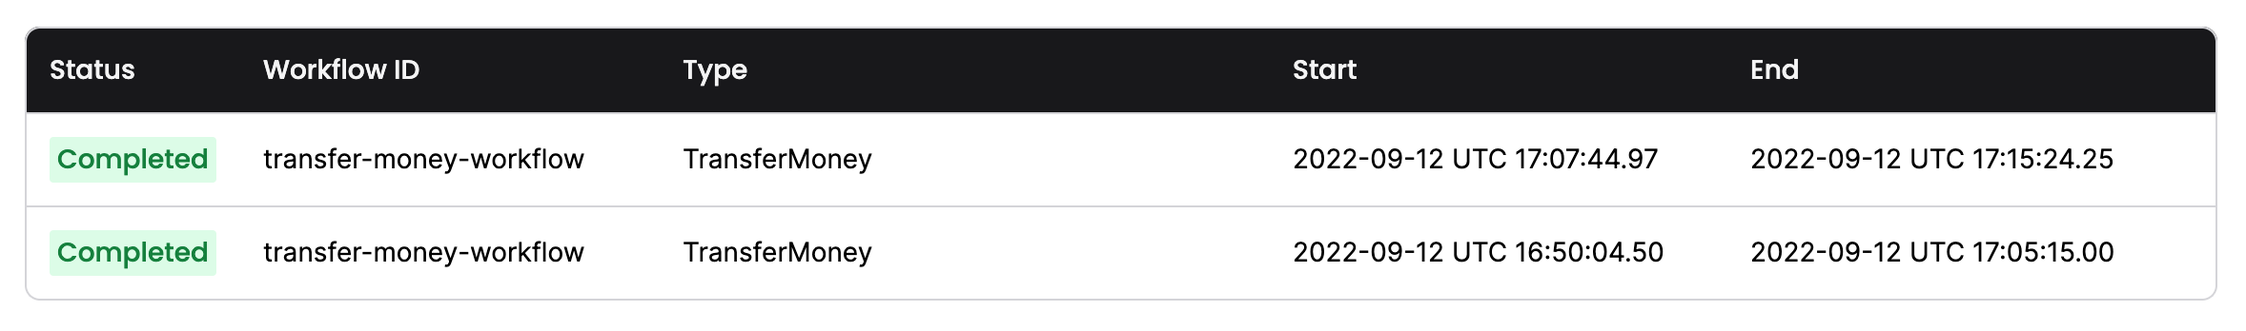
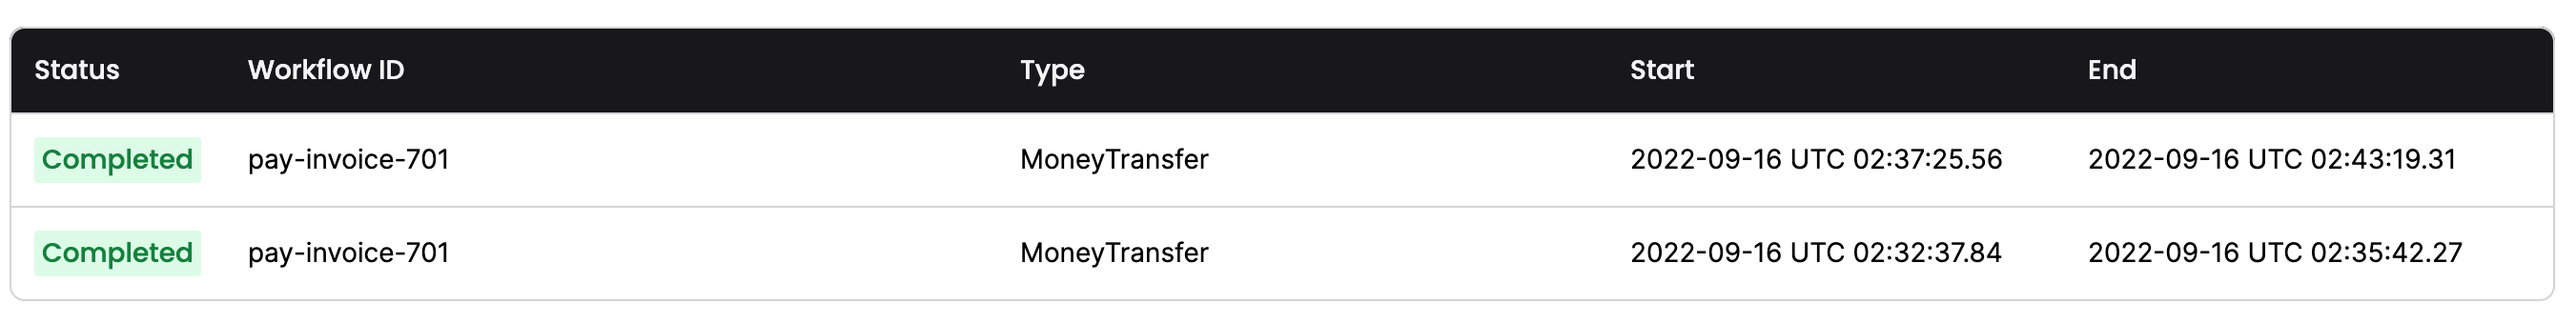
snipsync pointing to new money transfer app

diff --git a/docs/getting_started/go/first_program_in_go/index.md b/docs/getting_started/go/first_program_in_go/index.md
@@ -7,6 +7,7 @@ tags: [Go, SDK]
 last_update:
   date: 2022-09-12
 title: Run your first Temporal application with the Go SDK
+code_repo: https://github.com/temporalio/money-transfer-project-template-go
 ---
 
 ![Your first program in Go](images/banner.jpg)
@@ -44,7 +45,7 @@ Before starting this tutorial:
 
 ## ![](/img/icons/workflow.png) Application overview
 
-This project template mimics a "money transfer" application that has a single [Workflow function](https://docs.temporal.io/application-development/foundations/?lang=go#develop-workflows) which orchestrates the execution of `Withdraw()` and `Deposit()` functions, representing a transfer of money from one account to another. Temporal calls these particular functions [Activity functions](https://docs.temporal.io/application-development/foundations/?lang=go#develop-activities).
+The project in this tutorial mimics a "money transfer" application that has a single [Workflow function](https://docs.temporal.io/application-development/foundations/?lang=go#develop-workflows) which orchestrates the execution of `Withdraw()` and `Deposit()` functions, representing a transfer of money from one account to another. Temporal calls these particular functions [Activity functions](https://docs.temporal.io/application-development/foundations/?lang=go#develop-activities).
 
 To run the application you will do the following:
 
@@ -94,17 +95,23 @@ You use a [Workflow Definition](https://docs.temporal.io/workflows#workflow-defi
 <!--SNIPSTART money-transfer-project-template-go-workflow-->
 <!--SNIPEND-->
 
-In this case, the `TransferMoney` function accepts a value called `transferDetails` which is a data structure that holds the details the Workflow will use to perform the money transfer, which is defined in the file `shared.go`: 
+In this case, the `MoneyTransfer` function accepts an `input` variable of the type `PaymentDetails` which is a data structure that holds the details the Workflow will use to perform the money transfer, which is defined in the file `shared.go`: 
 
 <!--SNIPSTART money-transfer-project-template-go-transferdetails-->
 <!--SNIPEND-->
 
+It's a good practice to send a single, serializable data structure into a Workflow as its input, rather than multiple, separate input variables.
+
 The Workflow Definition then calls two Activities, `Withdraw` and `Deposit`. Activities are where you perform the business logic for your application. Like Workflows, you define Activities in Go by defining Go functions which receive a `context` and some input values.
 
-In this tutorial, the `withdraw` Activity takes in the details about the transfer and prints values to the screen:
+In this tutorial, the `withdraw` Activity takes in the details about the transfer and calls a service to process the withdrawal:
 
 <!--SNIPSTART money-transfer-project-template-go-activity-withdraw-->
 <!--SNIPEND-->
+
+If the transfer succeeded, the `Withdraw` function returns the confirmation. If it's unsuccessful, it returns an empty string and the error from the banking service.
+
+In this tutorial, the banking service simulates an external call.
 
 The `Deposit` function looks almost identical:
 
@@ -129,7 +136,7 @@ Let's see that in action.
 
 ## Start the Workflow 
 
-There are two ways to start a Workflow with Temporal, either via the SDK or via the [CLI](https://docs.temporal.io/tctl). In this tutorial you'll use the SDK to start the Workflow, which is how most Workflows get started in a live environment.
+There are two ways to start a Workflow with Temporal, either via the SDK or via the [tctl command-line tool](https://docs.temporal.io/tctl). In this tutorial you'll use the SDK to start the Workflow, which is how most Workflows get started in a live environment.
 
 In this tutorial, the file `start/main.go` contains a program that connects to the Temporal server and starts the workflow:
 
@@ -137,11 +144,11 @@ In this tutorial, the file `start/main.go` contains a program that connects to t
 <!--SNIPSTART money-transfer-project-template-go-start-workflow-->
 <!--SNIPEND-->
 
-You can make the call  [synchronously or asynchronously](https://docs.temporal.io/go/workflows/#how-to-start-a-workflow). Here we do it asynchronously, so you will see the program run, tell you the transaction is processing, and exit.
-
 :::note
 This tutorial uses a separate program to start the workflow, but you don't have to follow this pattern. In fact, most real applications will start a Workflow as part of another program. For example, you may start the Workflow in response to a button press, or an API call. 
 :::
+
+You can make the call [synchronously or asynchronously](https://docs.temporal.io/go/workflows/#how-to-start-a-workflow). Here we do it synchronously by fetching the return value of the Workflow execution with `we.Get`.  This call waits for the Workflow execution to complete before continuing.
 
 Now that you've seen how to use the SDK to start a Workflow Execution, try running the program yourself.
 
@@ -151,17 +158,19 @@ Make sure the [Temporal server](https://docs.temporal.io/clusters/quick-install)
 go run start/main.go
 ```
 
-If this is your first time running this application, Go may download some dependencies initially, but eventually you will get some feedback that looks like this:
+If this is your first time running this application, Go may download some dependencies initially, but once those downloads complete, you'll see output that looks like the following:
 
 ```bash
-2022/09/12 11:50:04 INFO  No logger configured for temporal client. Created default one.
-2022/09/12 11:50:04
-Transfer of $54.990002 from account 001-001 to account 002-002 is processing. ReferenceID: f3627192-bc3f-44c4-9556-f81adddeb41a
-2022/09/12 11:50:04
-WorkflowID: transfer-money-workflow RunID: 8319df7c-bc08-46d3-b9c9-cece1f42329d
+2022/09/15 21:32:38 INFO  No logger configured for temporal client. Created default one.
+2022/09/15 21:32:38 Starting transfer from account 85-150 to account 43-812 for 250
+2022/09/15 21:32:38 WorkflowID: pay-invoice-701 RunID: d69e638f-93e2-418c-9b05-16ca63526940
+
+
 ```
 
-The workflow is now running. Now it's time to check out one of the unique value propositions Temporal offers: application state visibility. 
+The workflow is now running. Leave the program running.
+
+Now it's time to check out one of the unique value propositions Temporal offers: application state visibility. 
 
 ## View the state of the Workflow with the Temporal Web UI
 
@@ -175,23 +184,27 @@ Next, click the ID for your Workflow. Now you can see everything you want to kno
 
 ![The details of the run.](images/workflow_status.png)
 
-You can see the inputs and results of the Workflow Execution by clicking the **Inputs and Results** section:
+The Workflow is "running", but the Workflow hasn't executed yet. As you see from the Web UI, there are no Workers running, polling the Task Queue.
 
-![Input and results](images/input_output.png)
+You can see the inputs and results of the Workflow Execution by clicking the **Input and Results** section:
 
-It seems that the Workflow is "running", but the Workflow hasn't executed yet. As you see from the Web UI, there are no Workers polling the Task Queue.
+![Input and results](images/inputs_results.png)
 
-You need at least one worker running in order to execute your workflows. 
+You see your inputs, but the results are in progress.
+
+You need at least one worker running in order to execute your workflows. You'll start the Worker next.
 
 ## Start the Worker
 
-It's time to start the Worker. A Worker is responsible for executing pieces of Workflow and Activity code.
+A Worker is responsible for executing pieces of Workflow and Activity code.
 
 - It can only execute code that has been registered to it.
 - It knows which piece of code to execute from Tasks that it gets from the Task Queue.
 - It only listens to the Task Queue that it is registered to.
 
-After the Worker executes code, it returns the results back to the Temporal Server:
+After the Worker executes code, it returns the results back to the Temporal Server.
+
+The file `worker/main.go` contains the code for the Worker. Like the program that started the Workflow, it connects to the Temporal Cluster. It also registers the Workflow and the two Activities:
 
 <!--SNIPSTART money-transfer-project-template-go-worker-->
 <!--SNIPEND-->
@@ -203,7 +216,15 @@ Task Queues are defined by a string name. To ensure your Task Queue names are co
 <!--SNIPSTART money-transfer-project-template-go-shared-task-queue-->
 <!--SNIPEND-->
 
-In your Terminal, run `worker/main.go` from the project root using the following command:
+Your `start/main.go` program is still running in your terminal, waiting for the Workflow to complete. Leave it running.
+
+Open a new terminal window and switch to your project directory:
+
+```command
+cd money-transfer-project-template-go
+```
+
+In this new terminal window, run `worker/main.go` from the project root using the following command:
 
 ```command
 go run worker/main.go
@@ -211,48 +232,65 @@ go run worker/main.go
 
 When you start the Worker it begins polling the Task Queue.
 
-The terminal output will look like this:
+The terminal output from the Worker will look like this:
 
 ```bash
-2022/09/12 12:03:16 INFO  No logger configured for temporal client. Created default one.
-2022/09/12 12:03:16 INFO  Started Worker Namespace default TaskQueue TRANSFER_MONEY_TASK_QUEUE WorkerID 24404@temporal.local@
-2022/09/12 12:05:15 DEBUG ExecuteActivity Namespace default TaskQueue TRANSFER_MONEY_TASK_QUEUE WorkerID 24404@temporal.local@ WorkflowType TransferMoney WorkflowID transfer-money-workflow RunID 8319df7c-bc08-46d3-b9c9-cece1f42329d Attempt 1 ActivityID 5 ActivityType Withdraw
+2022/09/15 21:35:43 INFO  No logger configured for temporal client. Created default one.
+2022/09/15 21:35:43 INFO  Started Worker Namespace default TaskQueue TRANSFER_MONEY_TASK_QUEUE WorkerID 73813@temporal.local@
+2022/09/15 21:35:43 DEBUG ExecuteActivity Namespace default TaskQueue TRANSFER_MONEY_TASK_QUEUE WorkerID 73813@temporal.local@ WorkflowType MoneyTransfer WorkflowID pay-invoice-701 RunID d69e638f-93e2-418c-9b05-16ca63526940 Attempt 1 ActivityID 5 ActivityType Withdraw
+2022/09/15 21:35:43 Withdrawing $250 from account 85-150.
 
-Withdrawing $54.990002 from account 001-001. ReferenceId: f3627192-bc3f-44c4-9556-f81adddeb41a
-2022/09/12 12:05:15 DEBUG ExecuteActivity Namespace default TaskQueue TRANSFER_MONEY_TASK_QUEUE WorkerID 24404@temporal.local@ WorkflowType TransferMoney WorkflowID transfer-money-workflow RunID 8319df7c-bc08-46d3-b9c9-cece1f42329d Attempt 1 ActivityID 11 ActivityType Deposit
+2022/09/15 21:35:43 DEBUG ExecuteActivity Namespace default TaskQueue TRANSFER_MONEY_TASK_QUEUE WorkerID 73813@temporal.local@ WorkflowType MoneyTransfer WorkflowID pay-invoice-701 RunID d69e638f-93e2-418c-9b05-16ca63526940 Attempt 1 ActivityID 11 ActivityType Deposit
+2022/09/15 21:35:43 Depositing $250 into account 43-812.
 
-Depositing $54.990002 into account 002-002. ReferenceId: f3627192-bc3f-44c4-9556-f81adddeb41a
+
+```
+
+The Worker continues running, waiting for more Tasks to execute. 
+
+Switch back to the terminal window where your `start/main.go` program is running and you'll see it's completed:
+
+```
+...
+
+2022/09/15 21:35:43 Transfer complete (transaction IDs: W1779185060, D4129841576)
+
 ```
 
 Check the Temporal Web UI again and you will see one Worker registered where previously there was none, and the Workflow status shows that it is completed:
 
 ![There is now one worker and the Workflow is complete](images/completed_workflow.png)
 
-:::tip What actually happens under the hood
+:::tip What happens under the hood
 
-> - The first Task the Worker finds is the one that tells it to execute the Workflow function.
-> - The Worker communicates the event back to the server.
-> - This causes the server to send Activity Tasks to the Task Queue.
-> - The Worker then grabs each of the Activity Tasks in their respective order from the Task Queue and executes each of the corresponding Activities.
->
-> Each of these are **History Events** that can be audited in Temporal Web (under the `History` tab next to `Summary`). Once a workflow is completed and closed, the full history will persist for a set retention period (typically 7-30 days) before being deleted. You can set up [the Archival feature](https://docs.temporal.io/concepts/what-is-archival) to send them to long term storage for compliance/audit needs.
+Here's what happens when the Worker runs and connects to the Temporal cluster:
+
+- The first Task the Worker finds is the one that tells it to execute the Workflow function.
+- The Worker communicates the event back to the server.
+- This causes the server to send Activity Tasks to the Task Queue.
+- The Worker then grabs each of the Activity Tasks in their respective order from the Task Queue and executes each of the corresponding Activities.
+
+Each of these are **History Events** that you can audit in Temporal Web under the **History** tab next to **Summary**. 
+
+Once a workflow is completed and closed, the full history will persist for a set retention period (typically 7-30 days) before being deleted. You can set up [the Archival feature](https://docs.temporal.io/concepts/what-is-archival) to send these entries to long term storage for compliance or audit needs.
 
 :::
 
-You've just ran a Temporal Workflow application!
+You just ran a Temporal Workflow application and saw how Workflows, Activities, and Workers interact. Now you'll explore how Temporal gives you tools to handle failures.
 
 ## ![](/img/icons/warning.png) Simulate failures
 
-You just got a taste of one of Temporal's amazing value propositions: visibility into the Workflow and the status of the Workers executing the code. Let's explore another key value proposition, maintaining the state of a Workflow, even in the face of failures. To demonstrate this you will simulate some failures for your Workflow. Make sure your Worker is stopped before proceeding by pressing `CTRL+C`.
+You just got a taste of one of Temporal's amazing value propositions: visibility into the Workflow and the status of the Workers executing the code. Let's explore another key value proposition, maintaining the state of a Workflow, even in the face of failures. To demonstrate this you will simulate some failures for your Workflow. 
 
 ### Recover from a server crash
 
-Unlike many modern applications that require complex leader election processes and external databases to handle failure, Temporal automatically preserves the state of your Workflow even if the server is down. You can easily test this by following these steps (again, make sure your Worker is stopped so your Workflow doesn't finish):
+Unlike many modern applications that require complex leader election processes and external databases to handle failure, Temporal automatically preserves the state of your Workflow even if the server is down. You can easily test this by following these steps:
 
-1. Start the Workflow again with `go run starter/main.go`.
-2. Verify the Workflow is running in the UI.
-3. Shut down the Temporal server by either using `CTRL+C` in the terminal window running the server or via the Docker dashboard.
-4. After the Temporal server has stopped, restart it and visit the UI.
+1.  Make sure your Worker is stopped before proceeding so your Workflow doesn't finish). Switch to the terminal that's running your Worker and stop it by pressing `CTRL+C`. 
+2. Switch back to the terminal where your Workflow ran. Start the Workflow again with `go run starter/main.go`.
+3. Verify the Workflow is running in the UI.
+4. Shut down the Temporal server by either using `CTRL+C` in the terminal window running the server or via the Docker dashboard.
+5. After the Temporal server has stopped, restart it and visit the UI.
 
 Your Workflow is still listed:
 
@@ -262,10 +300,12 @@ Your Workflow is still listed:
 
 Next you'll simulate a bug in the `Deposit()` Activity function. Let your Workflow continue to run but don't start the Worker yet.
 
-Open the `activity.go` file and switch out the comments on the `return` statements such that the `Deposit()` function returns an error.
+Open the `activity.go` file and switch out the comments on the `return` statements so that the `Deposit()` function returns an error. 
 
-<!--SNIPSTART money-transfer-project-template-go-activity-->
+<!--SNIPSTART money-transfer-project-template-go-activity-deposit-->
 <!--SNIPEND-->
+
+Ensure you're calling `bank.DepositThatFails`.
 
 Save your changes and run the Worker.
 
@@ -276,21 +316,23 @@ go run worker/main.go
 You will see the Worker complete the `Withdraw()` Activity function, but it errors when it attempts the `Deposit()` Activity function. The important thing to note here is that the Worker keeps retrying the `Deposit()` function.
 
 ```bash
-2022/09/12 12:09:21 INFO  No logger configured for temporal client. Created default one.
-2022/09/12 12:09:21 INFO  Started Worker Namespace default TaskQueue TRANSFER_MONEY_TASK_QUEUE WorkerID 24907@temporal.local@
-2022/09/12 12:09:21 DEBUG ExecuteActivity Namespace default TaskQueue TRANSFER_MONEY_TASK_QUEUE WorkerID 24907@temporal.local@ WorkflowType TransferMoney WorkflowID transfer-money-workflow RunID c5eb94ae-926e-48e4-bb55-545fed7f3324 Attempt 1 ActivityID 5 ActivityType Withdraw
+2022/09/15 21:39:11 INFO  No logger configured for temporal client. Created default one.
+2022/09/15 21:39:11 INFO  Started Worker Namespace default TaskQueue TRANSFER_MONEY_TASK_QUEUE WorkerID 74264@temporal.local@
+2022/09/15 21:39:11 DEBUG ExecuteActivity Namespace default TaskQueue TRANSFER_MONEY_TASK_QUEUE WorkerID 74264@temporal.local@ WorkflowType MoneyTransfer WorkflowID pay-invoice-701 RunID 8ef06aed-417f-431e-bb6e-c5f62b36d4d2 Attempt 1 ActivityID 5 ActivityType Withdraw
+2022/09/15 21:39:11 Withdrawing $250 from account 85-150.
 
-Withdrawing $54.990002 from account 001-001. ReferenceId: 92be67a3-fdc2-42ac-b160-fe84e8255103
-2022/09/12 12:09:21 DEBUG ExecuteActivity Namespace default TaskQueue TRANSFER_MONEY_TASK_QUEUE WorkerID 24907@temporal.local@ WorkflowType TransferMoney WorkflowID transfer-money-workflow RunID c5eb94ae-926e-48e4-bb55-545fed7f3324 Attempt 1 ActivityID 11 ActivityType Deposit
+2022/09/15 21:39:11 DEBUG ExecuteActivity Namespace default TaskQueue TRANSFER_MONEY_TASK_QUEUE WorkerID 74264@temporal.local@ WorkflowType MoneyTransfer WorkflowID pay-invoice-701 RunID 8ef06aed-417f-431e-bb6e-c5f62b36d4d2 Attempt 1 ActivityID 11 ActivityType Deposit
+2022/09/15 21:39:12 Depositing $250 into account 43-812.
 
-Depositing $54.990002 into account 002-002. ReferenceId: 92be67a3-fdc2-42ac-b160-fe84e8255103
-2022/09/12 12:09:21 ERROR Activity error. Namespace default TaskQueue TRANSFER_MONEY_TASK_QUEUE WorkerID 24907@temporal.local@ WorkflowID transfer-money-workflow RunID c5eb94ae-926e-48e4-bb55-545fed7f3324 ActivityType Deposit Attempt 1 Error deposit did not occur due to an issue
+2022/09/15 21:39:12 ERROR Activity error. Namespace default TaskQueue TRANSFER_MONEY_TASK_QUEUE WorkerID 74264@temporal.local@ WorkflowID pay-invoice-701 RunID 8ef06aed-417f-431e-bb6e-c5f62b36d4d2 ActivityType Deposit Attempt 1 Error This deposit has failed.
+2022/09/15 21:39:13 Depositing $250 into account 43-812.
 
-Depositing $54.990002 into account 002-002. ReferenceId: 92be67a3-fdc2-42ac-b160-fe84e8255103
-2022/09/12 12:09:22 ERROR Activity error. Namespace default TaskQueue TRANSFER_MONEY_TASK_QUEUE WorkerID 24907@temporal.local@ WorkflowID transfer-money-workflow RunID c5eb94ae-926e-48e4-bb55-545fed7f3324 ActivityType Deposit Attempt 2 Error deposit did not occur due to an issue
+2022/09/15 21:39:13 ERROR Activity error. Namespace default TaskQueue TRANSFER_MONEY_TASK_QUEUE WorkerID 74264@temporal.local@ WorkflowID pay-invoice-701 RunID 8ef06aed-417f-431e-bb6e-c5f62b36d4d2 ActivityType Deposit Attempt 2 Error This deposit has failed.
+2022/09/15 21:39:15 Depositing $250 into account 43-812.
 
-Depositing $54.990002 into account 002-002. ReferenceId: 92be67a3-fdc2-42ac-b160-fe84e8255103
-2022/09/12 12:09:24 ERROR Activity error. Namespace default TaskQueue TRANSFER_MONEY_TASK_QUEUE WorkerID 24907@temporal.local@ WorkflowID transfer-money-workflow RunID c5eb94ae-926e-48e4-bb55-545fed7f3324 ActivityType Deposit Attempt 3 Error deposit did not occur due to an issue
+2022/09/15 21:39:15 ERROR Activity error. Namespace default TaskQueue TRANSFER_MONEY_TASK_QUEUE WorkerID 74264@temporal.local@ WorkflowID pay-invoice-701 RunID 8ef06aed-417f-431e-bb6e-c5f62b36d4d2 ActivityType Deposit Attempt 3 Error This deposit has failed.
+
+...
 
 # it keeps retrying using the RetryPolicy specified in workflow.go
 ```
@@ -317,15 +359,16 @@ First, cancel the running worker with `CTRL+C`:
 
 ```bash
 # continuing logs from previous retries...
-Depositing $54.990002 into account 002-002. ReferenceId: 92be67a3-fdc2-42ac-b160-fe84e8255103
-2022/09/12 12:14:24 ERROR Activity error. Namespace default TaskQueue TRANSFER_MONEY_TASK_QUEUE WorkerID 24907@temporal.local@ WorkflowID transfer-money-workflow RunID c5eb94ae-926e-48e4-bb55-545fed7f3324 ActivityType Deposit Attempt 11 Error deposit did not occur due to an issue
+
+2022/09/15 21:42:15 Depositing $250 into account 43-812.
+
+2022/09/15 21:42:15 ERROR Activity error. Namespace default TaskQueue TRANSFER_MONEY_TASK_QUEUE WorkerID 74264@temporal.local@ WorkflowID pay-invoice-701 RunID 8ef06aed-417f-431e-bb6e-c5f62b36d4d2 ActivityType Deposit Attempt 9 Error This deposit has failed.
 
 ^C
 
-2022/09/12 12:14:33 INFO  Worker has been stopped. Namespace default TaskQueue TRANSFER_MONEY_TASK_QUEUE WorkerID 24907@temporal.local@ Signal interrupt
-2022/09/12 12:14:33 INFO  Stopped Worker Namespace default TaskQueue TRANSFER_MONEY_TASK_QUEUE WorkerID 24907@temporal.local@
-2022/09/12 12:14:33 WARN  Failed to poll for task. Namespace default TaskQueue TRANSFER_MONEY_TASK_QUEUE WorkerID 24907@temporal.local@ WorkerType WorkflowWorker Error worker stopping
-2022/09/12 12:14:33 WARN  Failed to poll for task. Namespace default TaskQueue TRANSFER_MONEY_TASK_QUEUE WorkerID 24907@temporal.local@ WorkerType ActivityWorker Error worker stopping
+2022/09/15 21:43:09 INFO  Worker has been stopped. Namespace default TaskQueue TRANSFER_MONEY_TASK_QUEUE WorkerID 74264@temporal.local@ Signal interrupt
+2022/09/15 21:43:09 INFO  Stopped Worker Namespace default TaskQueue TRANSFER_MONEY_TASK_QUEUE WorkerID 74264@temporal.local@
+
 ```
 
 Then restart the worker:
@@ -334,15 +377,23 @@ Then restart the worker:
 go run worker/main.go
 ```
 
-The Worker starts again. On the next scheduled attempt, the Worker will pick up right where the Workflow was failing and successfully execute the newly compiled `Deposit()` Activity function, completing the Workflow:
+The Worker starts again. On the next scheduled attempt, the Worker will pick up right where the Workflow was failing and successfully execute the newly compiled `Deposit()` Activity function:
 
 ```bash
-2022/09/12 12:14:52 INFO  No logger configured for temporal client. Created default one.
-2022/09/12 12:14:52 INFO  Started Worker Namespace default TaskQueue TRANSFER_MONEY_TASK_QUEUE WorkerID 25348@temporal.local@
+2022/09/15 21:43:13 INFO  No logger configured for temporal client. Created default one.
+2022/09/15 21:43:13 INFO  Started Worker Namespace default TaskQueue TRANSFER_MONEY_TASK_QUEUE WorkerID 74606@temporal.local@
+2022/09/15 21:43:15 Depositing $250 into account 43-812.
 
-Depositing $54.990002 into account 002-002. ReferenceId: 92be67a3-fdc2-42ac-b160-fe84e8255103
 ```
 
+Switch back to the terminal where your `start/main.go` program is running and you'll see it complete:
+
+```
+...
+
+2022/09/15 21:43:20 Transfer complete (transaction IDs: W1779185060, D1779185060)
+
+```
 
 Visit the [Web UI](http://localhost:8080) again and you'll see the workflow has completed:
 
@@ -375,11 +426,12 @@ Answer the following questions to see if you remember some of the more important
 <details>
 <summary>
 
-**How do you pair up Workflow initiation with a Worker that executes it?**
+
+**Why do we recommend defining a shared constant to store the task queue name?**
 
 </summary>
 
-Use the same Task Queue.
+Because the task queue name is specified in two different parts of the code (the first starts the Workflow and the second configures the Worker). If their values differ, the then the Worker and Temporal Cluster would not share the same task queue, and the Workflow Execution would not progress.
 
 </details>
 
